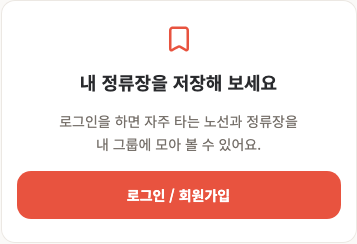
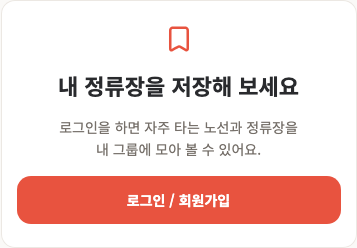
fix(SAL-249): 홈 비로그인 안내 글자 크기 통일

diff --git a/frontend/e2e/anonymous-home.spec.ts b/frontend/e2e/anonymous-home.spec.ts
@@ -6,6 +6,9 @@ for (const width of [320, 425]) {
     await page.goto("/");
     const card = page.getByRole("region", { name: "내 정류장을 저장해 보세요", exact: true });
     await expect(card).toBeVisible();
+    await expect(card.getByRole("heading")).toHaveCSS("font-size", "22px");
+    await expect(card.getByRole("heading")).toHaveCSS("line-height", "32px");
+    await expect(card.locator("p")).toHaveCSS("font-size", "14px");
     await expect(card).toContainText("로그인을 하면 자주 타는 노선과 정류장을");
     await expect(card).toContainText("내 그룹에 모아 볼 수 있어요.");
     await expect(card.getByRole("link", { name: "로그인 / 회원가입", exact: true })).toHaveAttribute(

diff --git a/frontend/src/pages/route-select/components/GuestFavoritesCard.css.ts b/frontend/src/pages/route-select/components/GuestFavoritesCard.css.ts
@@ -24,13 +24,20 @@ export const guestIcon = style({
   background: vars.color.liveBus,
   mask: `url(${bookmarkIcon}) center / contain no-repeat`,
 });
-export const guestTitle = style({ margin: 0, color: "#292A2D", fontSize: 18, fontWeight: 700, lineHeight: "26px" });
+export const guestTitle = style({
+  margin: 0,
+  color: "#292A2D",
+  fontSize: 22,
+  fontWeight: 700,
+  lineHeight: "32px",
+  wordBreak: "keep-all",
+});
 export const guestDescription = style({
   width: "100%",
   margin: 0,
   color: "#76706A",
   fontSize: 14,
-  lineHeight: 1.65,
+  lineHeight: 1.6,
   wordBreak: "keep-all",
 });
 export const guestLogin = style({
